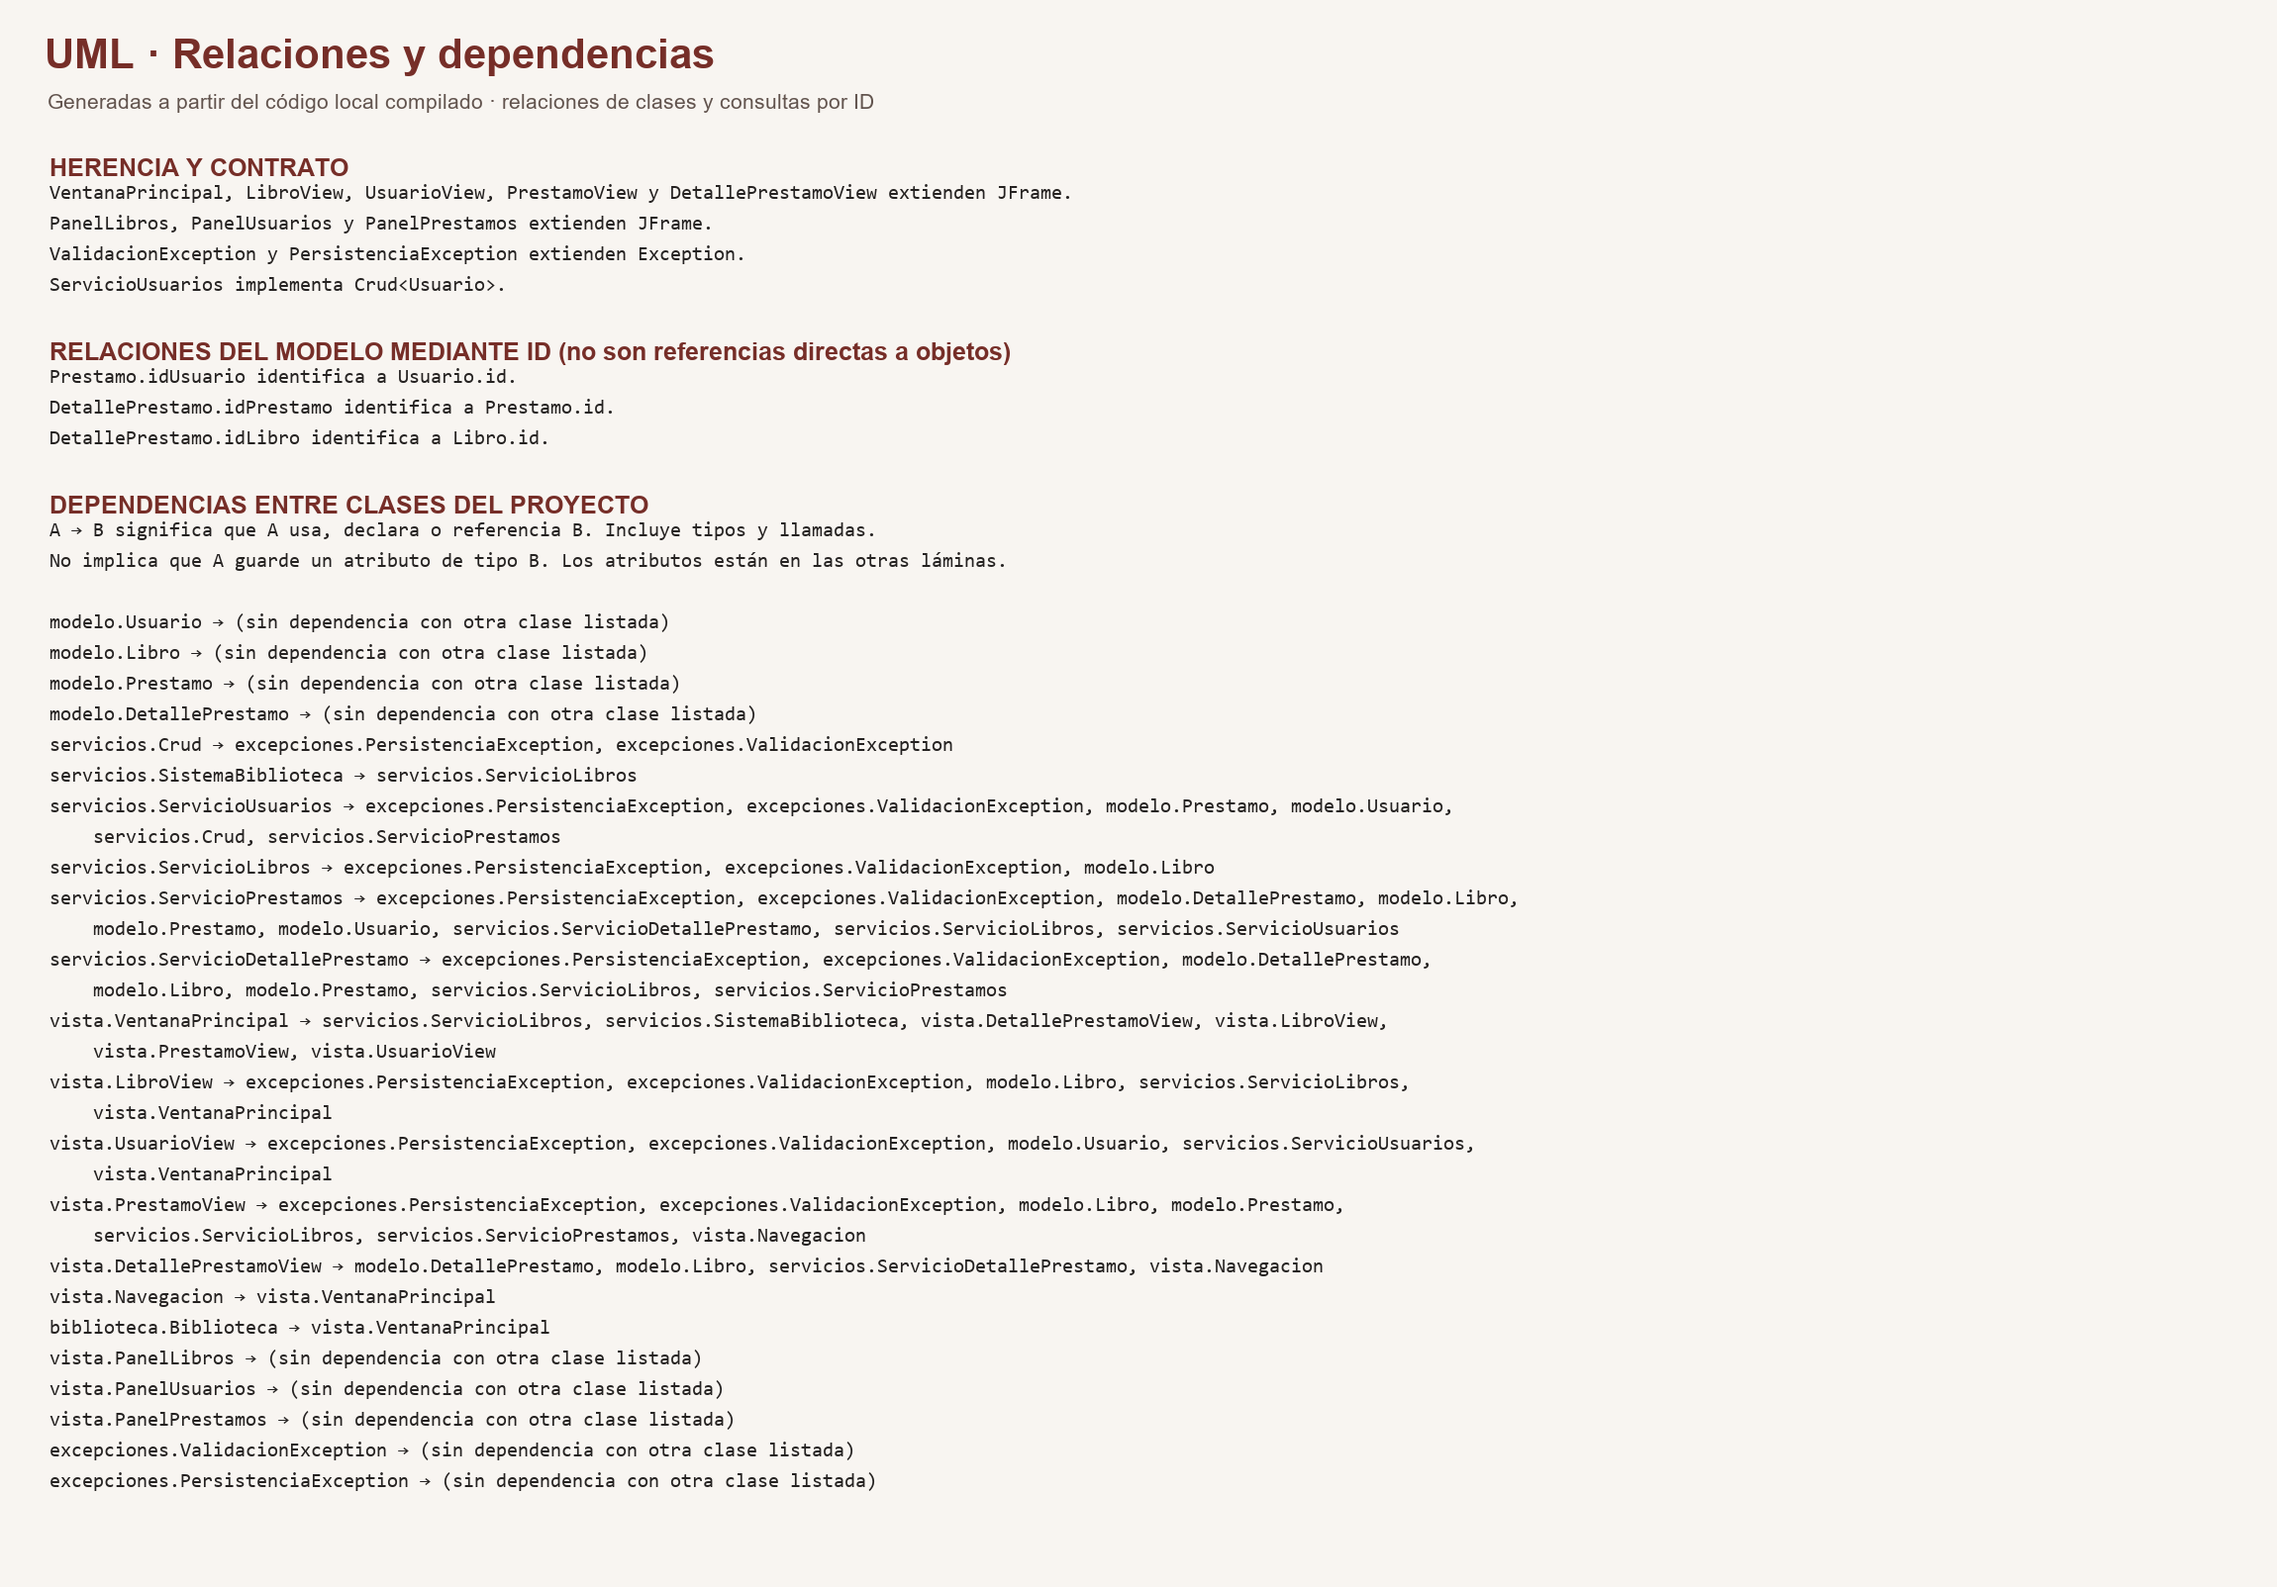
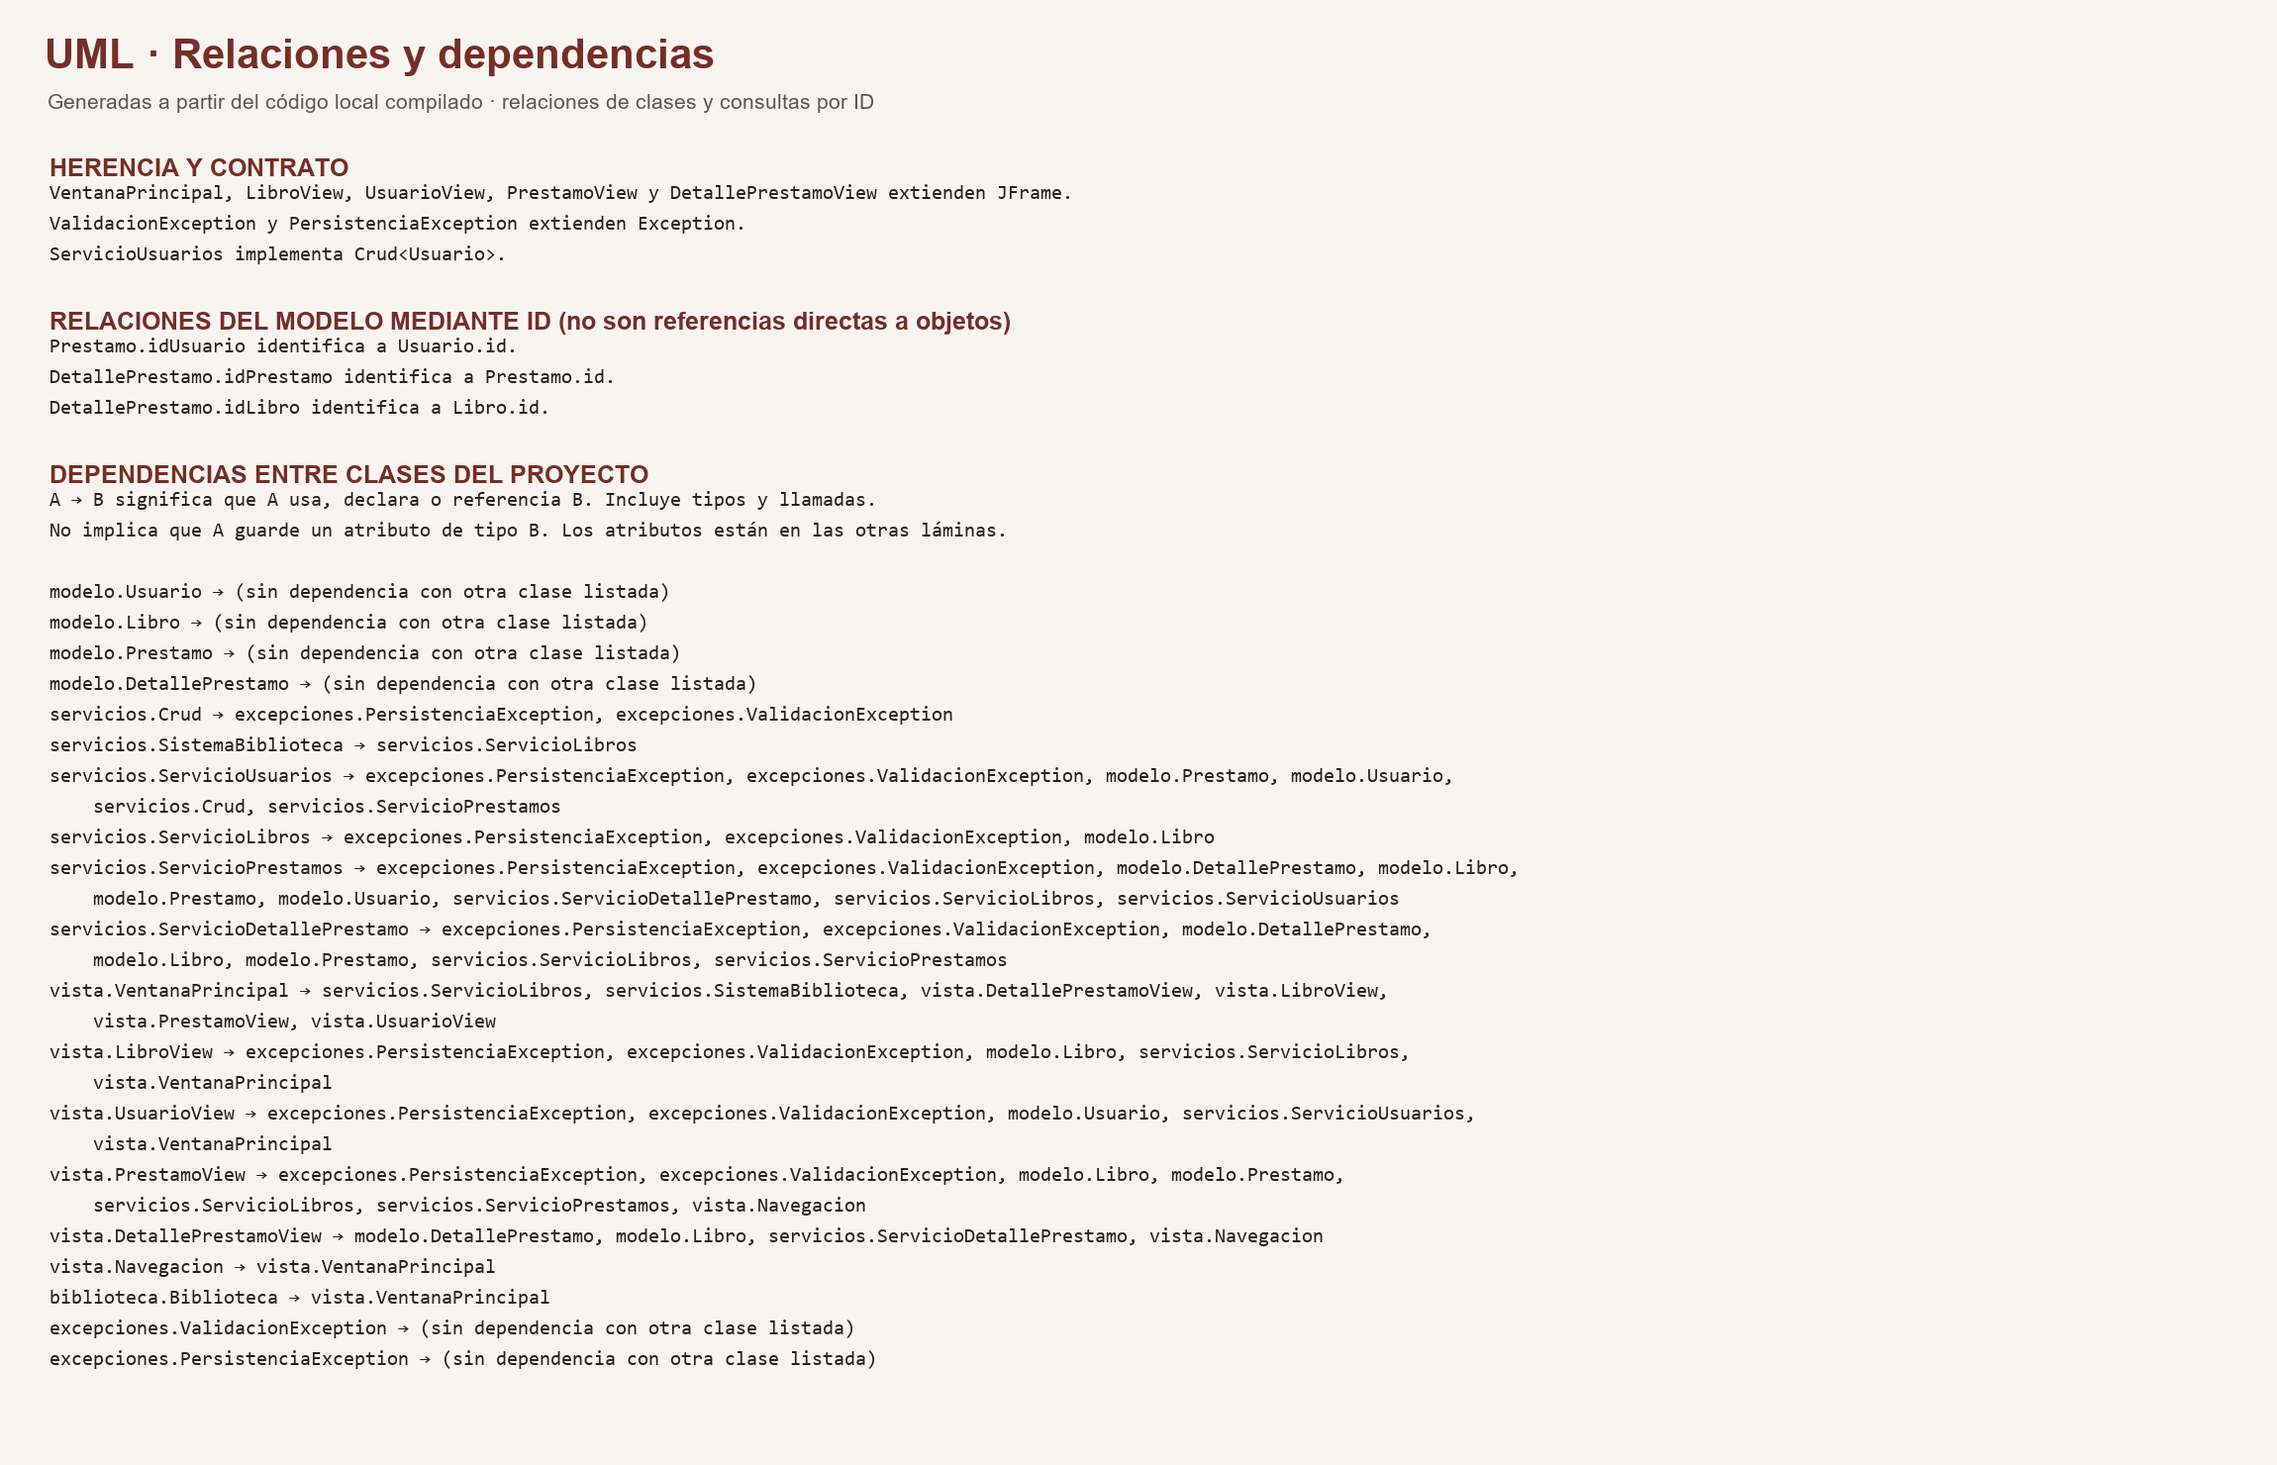
Limpiar formularios y actualizar diagramas UML

diff --git a/docs/modulo-libros.md b/docs/modulo-libros.md
@@ -6,7 +6,7 @@
 - `src/servicios/ServicioLibros.java`: CRUD, búsqueda, generación de IDs y persistencia del catálogo.
 - `src/vista/LibroView.java`: formulario Swing, tabla y mensajes para el usuario.
 
-Los cuatro modelos son clases independientes, cada uno con un `id` privado e inmutable, validado en su constructor y consultado mediante `getId()`. No hay una clase base de identidad. Se usan `ValidacionException` y `PersistenciaException` existentes. `Crud` no se cambia: su contrato actual no declara las excepciones comprobadas del servicio. `PanelLibros` es el formulario anterior; la pantalla funcional del catálogo es `LibroView`.
+Los modelos son clases independientes con sus propios atributos y validaciones. Se usan `ValidacionException` y `PersistenciaException`. La pantalla funcional del catálogo es `LibroView`.
 
 ## Integración en la carpeta principal
 

diff --git a/docs/uml/README.md b/docs/uml/README.md
@@ -7,6 +7,6 @@ Para la presentación, comienza por **06-diagrama-general.png** y usa las demás
 1. `01-modelo.png`: clases Usuario, Libro, Préstamo y DetallePrestamo.
 2. `02-servicios.png`: operaciones y persistencia.
 3. `03-vistas.png`: ventanas principales y navegación.
-4. `04-inicio-paneles-excepciones.png`: inicio, paneles y errores.
+4. `04-inicio-excepciones.png`: inicio y errores.
 5. `05-relaciones.png`: relaciones y dependencias.
 6. `06-diagrama-general.png`: vista general.
